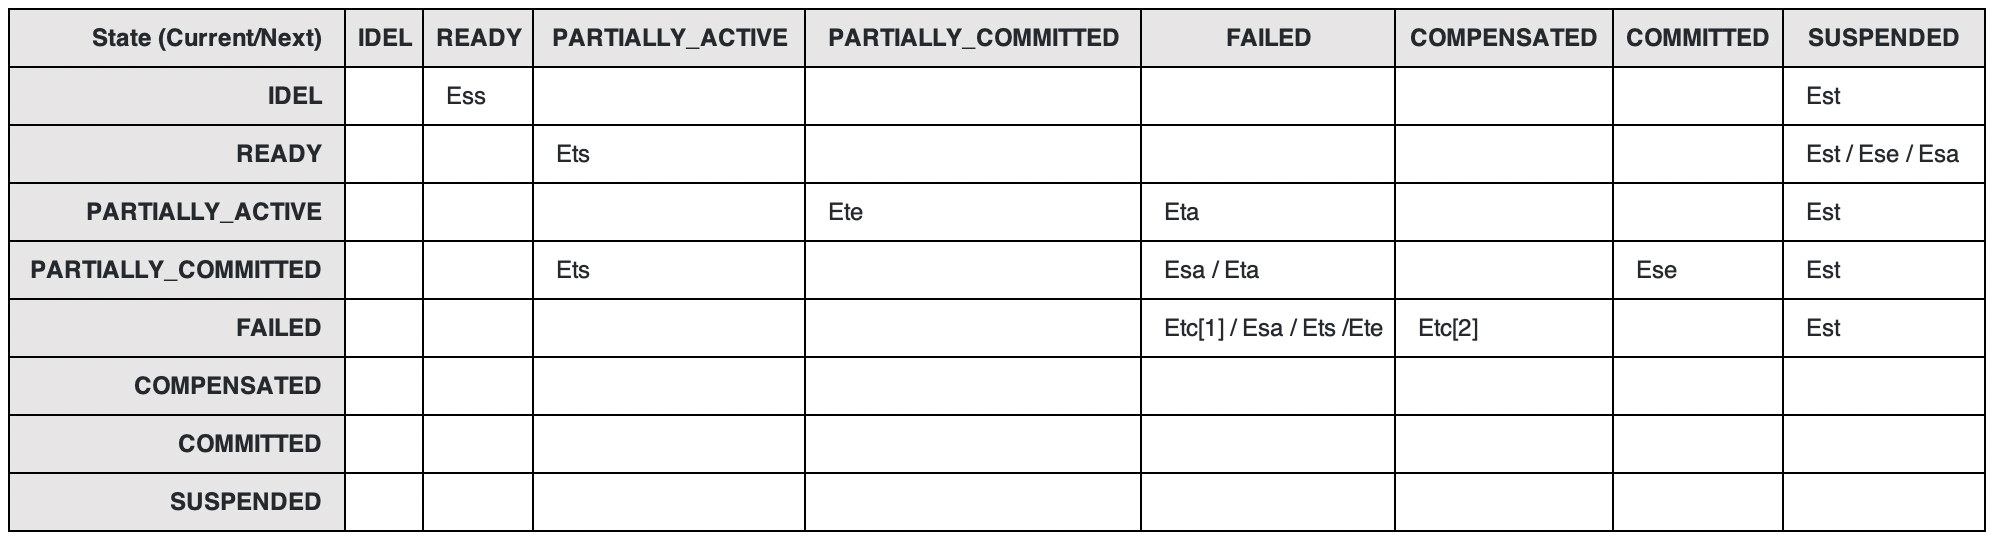
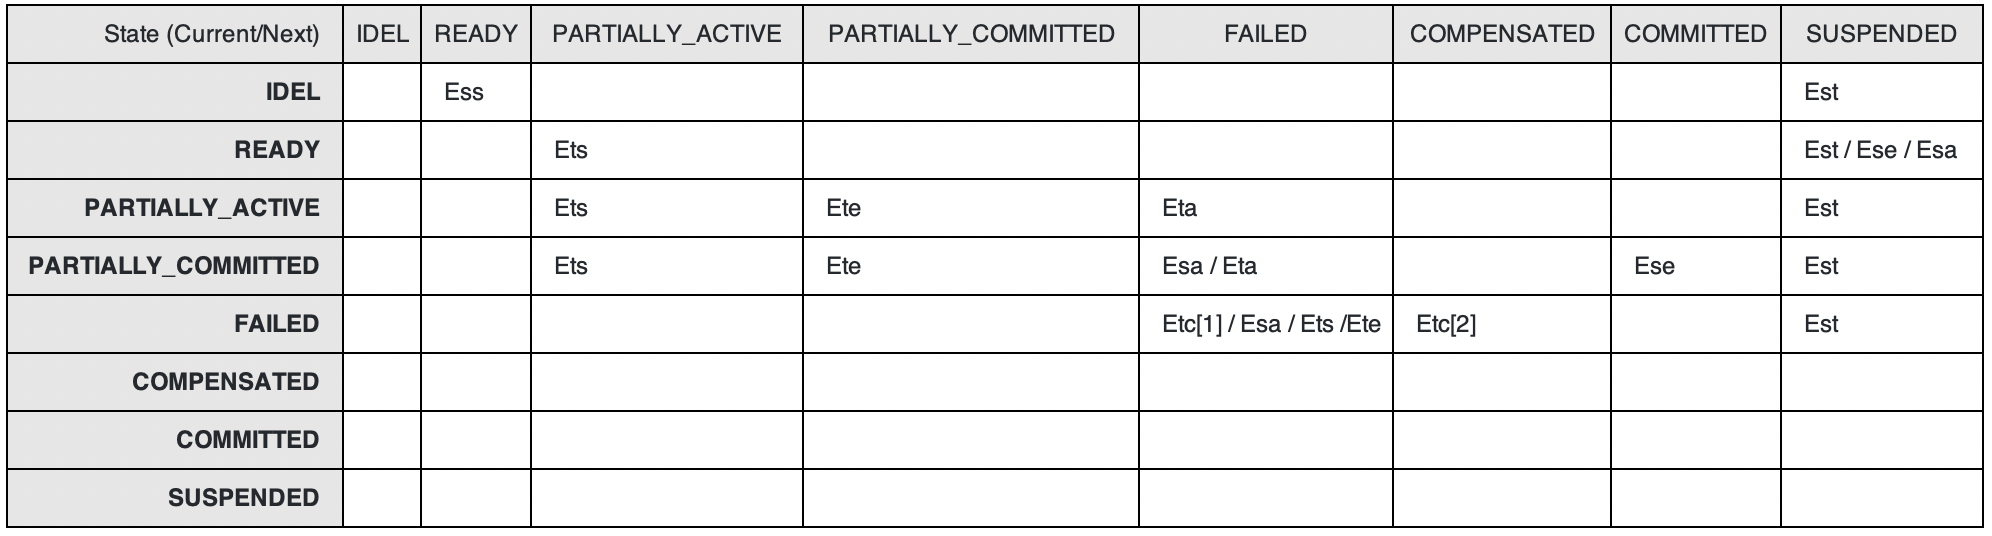
SCB-1321 Sub-transaction support concurrent

diff --git a/alpha/alpha-fsm/src/test/java/org/apache/servicecomb/pack/alpha/fsm/SagaActorTest.java b/alpha/alpha-fsm/src/test/java/org/apache/servicecomb/pack/alpha/fsm/SagaActorTest.java
@@ -8,6 +8,7 @@ import akka.actor.Terminated;
 import akka.persistence.fsm.PersistentFSM;
 import akka.persistence.fsm.PersistentFSM.CurrentState;
 import akka.testkit.javadsl.TestKit;
+import java.lang.invoke.MethodHandles;
 import java.time.Duration;
 import java.util.UUID;
 import org.apache.servicecomb.pack.alpha.fsm.event.SagaAbortedEvent;
@@ -22,8 +23,12 @@ import org.apache.servicecomb.pack.alpha.fsm.model.SagaData;
 import org.junit.AfterClass;
 import org.junit.BeforeClass;
 import org.junit.Test;
+import org.slf4j.Logger;
+import org.slf4j.LoggerFactory;
 
 public class SagaActorTest {
+
+  private static final Logger LOG = LoggerFactory.getLogger(MethodHandles.lookup().lookupClass());
 
   static ActorSystem system;
 
@@ -320,7 +325,7 @@ public class SagaActorTest {
    * 10. SagaAbortedEvent-1
    */
   @Test
-  public void receivedRemainingEventAfterfirstTxAbortedEventTest() {
+  public void receivedRemainingEventAfterFirstTxAbortedEventTest() {
     new TestKit(system) {{
       final String globalTxId = UUID.randomUUID().toString();
       final String localTxId_1 = UUID.randomUUID().toString();
@@ -601,6 +606,203 @@ public class SagaActorTest {
 
       transition = expectMsgClass(Duration.ofSeconds(timeout+2),PersistentFSM.Transition.class);
       assertSagaTransition(transition, saga, SagaActorState.PARTIALLY_COMMITTED, SagaActorState.SUSPENDED);
+
+      Terminated terminated = expectMsgClass(Terminated.class);
+      assertEquals(terminated.getActor(), saga);
+
+      system.stop(saga);
+    }};
+  }
+
+  // tx concurrent execution
+
+  /**
+   * 1. SagaStartedEvent-1
+   * 2. TxStartedEvent-11
+   * 3. TxStartedEvent-12
+   * 4. TxStartedEvent-13
+   * 5. TxEndedEvent-11
+   * 6. TxEndedEvent-12
+   * 7. TxEndedEvent-13
+   * 8. SagaEndedEvent-1
+   */
+  @Test
+  public void successfulTestWithTxConcurrent() throws InterruptedException {
+    new TestKit(system) {{
+      final String globalTxId = UUID.randomUUID().toString();
+      final String localTxId_1 = UUID.randomUUID().toString();
+      final String localTxId_2 = UUID.randomUUID().toString();
+      final String localTxId_3 = UUID.randomUUID().toString();
+
+      ActorRef saga = system.actorOf(SagaActor.props(genPersistenceId()), "saga");
+      watch(saga);
+      saga.tell(new PersistentFSM.SubscribeTransitionCallBack(getRef()), getRef());
+      saga.tell(SagaStartedEvent.builder().globalTxId(globalTxId).build(), getRef());
+      saga.tell(TxStartedEvent.builder().globalTxId(globalTxId).parentTxId(globalTxId).localTxId(localTxId_1).build(), getRef());
+      saga.tell(TxStartedEvent.builder().globalTxId(globalTxId).parentTxId(globalTxId).localTxId(localTxId_2).build(), getRef());
+      saga.tell(TxStartedEvent.builder().globalTxId(globalTxId).parentTxId(globalTxId).localTxId(localTxId_3).build(), getRef());
+      saga.tell(TxEndedEvent.builder().globalTxId(globalTxId).parentTxId(globalTxId).localTxId(localTxId_1).build(), getRef());
+      saga.tell(TxEndedEvent.builder().globalTxId(globalTxId).parentTxId(globalTxId).localTxId(localTxId_2).build(), getRef());
+      saga.tell(TxEndedEvent.builder().globalTxId(globalTxId).parentTxId(globalTxId).localTxId(localTxId_3).build(), getRef());
+      saga.tell(SagaEndedEvent.builder().globalTxId(globalTxId).build(), getRef());
+
+      //expect
+      CurrentState currentState = expectMsgClass(PersistentFSM.CurrentState.class);
+      assertEquals(SagaActorState.IDEL, currentState.state());
+
+      PersistentFSM.Transition transition = expectMsgClass(PersistentFSM.Transition.class);
+      assertSagaTransition(transition, saga, SagaActorState.IDEL, SagaActorState.READY);
+
+      transition = expectMsgClass(PersistentFSM.Transition.class);
+      assertSagaTransition(transition, saga, SagaActorState.READY, SagaActorState.PARTIALLY_ACTIVE);
+
+      transition = expectMsgClass(PersistentFSM.Transition.class);
+      assertSagaTransition(transition, saga, SagaActorState.PARTIALLY_ACTIVE, SagaActorState.PARTIALLY_COMMITTED);
+
+      SagaData sagaData = expectMsgClass(SagaData.class);
+      assertEquals(sagaData.getGlobalTxId(), globalTxId);
+      assertEquals(sagaData.getTxEntityMap().size(), 3);
+      sagaData.getTxEntityMap().forEach((k, v) -> {
+        assertEquals(v.getState(), TxState.COMMITTED);
+      });
+
+      transition = expectMsgClass(PersistentFSM.Transition.class);
+      assertSagaTransition(transition, saga, SagaActorState.PARTIALLY_COMMITTED, SagaActorState.COMMITTED);
+
+      Terminated terminated = expectMsgClass(Terminated.class);
+      assertEquals(terminated.getActor(), saga);
+
+      system.stop(saga);
+    }};
+  }
+
+  /**
+   * 1. SagaStartedEvent-1
+   * 2. TxStartedEvent-11
+   * 3. TxStartedEvent-12
+   * 5. TxEndedEvent-11
+   * 4. TxStartedEvent-13
+   * 6. TxEndedEvent-12
+   * 7. TxEndedEvent-13
+   * 8. SagaEndedEvent-1
+   */
+  @Test
+  public void successfulTestWithTxConcurrentCross() throws InterruptedException {
+    new TestKit(system) {{
+      final String globalTxId = UUID.randomUUID().toString();
+      final String localTxId_1 = UUID.randomUUID().toString();
+      final String localTxId_2 = UUID.randomUUID().toString();
+      final String localTxId_3 = UUID.randomUUID().toString();
+
+      ActorRef saga = system.actorOf(SagaActor.props(genPersistenceId()), "saga");
+      watch(saga);
+      saga.tell(new PersistentFSM.SubscribeTransitionCallBack(getRef()), getRef());
+      saga.tell(SagaStartedEvent.builder().globalTxId(globalTxId).build(), getRef());
+      saga.tell(TxStartedEvent.builder().globalTxId(globalTxId).parentTxId(globalTxId).localTxId(localTxId_1).build(), getRef());
+      saga.tell(TxStartedEvent.builder().globalTxId(globalTxId).parentTxId(globalTxId).localTxId(localTxId_2).build(), getRef());
+      saga.tell(TxEndedEvent.builder().globalTxId(globalTxId).parentTxId(globalTxId).localTxId(localTxId_1).build(), getRef());
+      saga.tell(TxStartedEvent.builder().globalTxId(globalTxId).parentTxId(globalTxId).localTxId(localTxId_3).build(), getRef());
+      saga.tell(TxEndedEvent.builder().globalTxId(globalTxId).parentTxId(globalTxId).localTxId(localTxId_2).build(), getRef());
+      saga.tell(TxEndedEvent.builder().globalTxId(globalTxId).parentTxId(globalTxId).localTxId(localTxId_3).build(), getRef());
+      saga.tell(SagaEndedEvent.builder().globalTxId(globalTxId).build(), getRef());
+
+      //expect
+      CurrentState currentState = expectMsgClass(PersistentFSM.CurrentState.class);
+      assertEquals(SagaActorState.IDEL, currentState.state());
+
+      PersistentFSM.Transition transition = expectMsgClass(PersistentFSM.Transition.class);
+      assertSagaTransition(transition, saga, SagaActorState.IDEL, SagaActorState.READY);
+
+      transition = expectMsgClass(PersistentFSM.Transition.class);
+      assertSagaTransition(transition, saga, SagaActorState.READY, SagaActorState.PARTIALLY_ACTIVE);
+
+      transition = expectMsgClass(PersistentFSM.Transition.class);
+      assertSagaTransition(transition, saga, SagaActorState.PARTIALLY_ACTIVE, SagaActorState.PARTIALLY_COMMITTED);
+
+      transition = expectMsgClass(PersistentFSM.Transition.class);
+      assertSagaTransition(transition, saga, SagaActorState.PARTIALLY_COMMITTED, SagaActorState.PARTIALLY_ACTIVE);
+
+      transition = expectMsgClass(PersistentFSM.Transition.class);
+      assertSagaTransition(transition, saga, SagaActorState.PARTIALLY_ACTIVE, SagaActorState.PARTIALLY_COMMITTED);
+
+      SagaData sagaData = expectMsgClass(SagaData.class);
+      assertEquals(sagaData.getGlobalTxId(), globalTxId);
+      assertEquals(sagaData.getTxEntityMap().size(), 3);
+      sagaData.getTxEntityMap().forEach((k, v) -> {
+        assertEquals(v.getState(), TxState.COMMITTED);
+      });
+
+      transition = expectMsgClass(PersistentFSM.Transition.class);
+      assertSagaTransition(transition, saga, SagaActorState.PARTIALLY_COMMITTED, SagaActorState.COMMITTED);
+
+      Terminated terminated = expectMsgClass(Terminated.class);
+      assertEquals(terminated.getActor(), saga);
+
+      system.stop(saga);
+    }};
+  }
+
+  /**
+   * 1. SagaStartedEvent-1
+   * 2. TxStartedEvent-11
+   * 4. TxStartedEvent-12
+   * 6. TxStartedEvent-13
+   * 3. TxEndedEvent-11
+   * 5. TxEndedEvent-12
+   * 7. TxAbortedEvent-13
+   * 8. TxComponsitedEvent-11
+   * 9. TxComponsitedEvent-12
+   * 10. SagaAbortedEvent-1
+   */
+  @Test
+  public void lastTxAbortedEventWithTxConcurrentTest() {
+    new TestKit(system) {{
+      final String globalTxId = UUID.randomUUID().toString();
+      final String localTxId_1 = UUID.randomUUID().toString();
+      final String localTxId_2 = UUID.randomUUID().toString();
+      final String localTxId_3 = UUID.randomUUID().toString();
+
+      ActorRef saga = system.actorOf(SagaActor.props(genPersistenceId()), "saga");
+      watch(saga);
+      saga.tell(new PersistentFSM.SubscribeTransitionCallBack(getRef()), getRef());
+
+      saga.tell(SagaStartedEvent.builder().globalTxId(globalTxId).build(), getRef());
+      saga.tell(TxStartedEvent.builder().globalTxId(globalTxId).parentTxId(globalTxId).localTxId(localTxId_1).build(), getRef());
+      saga.tell(TxStartedEvent.builder().globalTxId(globalTxId).parentTxId(globalTxId).localTxId(localTxId_2).build(), getRef());
+      saga.tell(TxStartedEvent.builder().globalTxId(globalTxId).parentTxId(globalTxId).localTxId(localTxId_3).build(), getRef());
+      saga.tell(TxEndedEvent.builder().globalTxId(globalTxId).parentTxId(globalTxId).localTxId(localTxId_1).build(), getRef());
+      saga.tell(TxEndedEvent.builder().globalTxId(globalTxId).parentTxId(globalTxId).localTxId(localTxId_2).build(), getRef());
+      saga.tell(TxAbortedEvent.builder().globalTxId(globalTxId).parentTxId(globalTxId).localTxId(localTxId_3).build(), getRef());
+      saga.tell(TxComponsitedEvent.builder().globalTxId(globalTxId).parentTxId(globalTxId).localTxId(localTxId_1).build(), getRef());
+      saga.tell(TxComponsitedEvent.builder().globalTxId(globalTxId).parentTxId(globalTxId).localTxId(localTxId_2).build(), getRef());
+      saga.tell(SagaAbortedEvent.builder().globalTxId(globalTxId).build(), getRef());
+
+      //expect
+      CurrentState currentState = expectMsgClass(PersistentFSM.CurrentState.class);
+      assertEquals(SagaActorState.IDEL, currentState.state());
+
+      PersistentFSM.Transition transition = expectMsgClass(PersistentFSM.Transition.class);
+      assertSagaTransition(transition, saga, SagaActorState.IDEL, SagaActorState.READY);
+
+      transition = expectMsgClass(PersistentFSM.Transition.class);
+      assertSagaTransition(transition, saga, SagaActorState.READY, SagaActorState.PARTIALLY_ACTIVE);
+
+      transition = expectMsgClass(PersistentFSM.Transition.class);
+      assertSagaTransition(transition, saga, SagaActorState.PARTIALLY_ACTIVE, SagaActorState.PARTIALLY_COMMITTED);
+
+      transition = expectMsgClass(PersistentFSM.Transition.class);
+      assertSagaTransition(transition, saga, SagaActorState.PARTIALLY_COMMITTED, SagaActorState.FAILED);
+
+      SagaData sagaData = expectMsgClass(SagaData.class);
+      assertEquals(sagaData.getGlobalTxId(), globalTxId);
+      assertEquals(sagaData.getTxEntityMap().size(), 3);
+      assertEquals(sagaData.getTxEntityMap().get(localTxId_1).getState(), TxState.COMPENSATED);
+      assertEquals(sagaData.getTxEntityMap().get(localTxId_2).getState(), TxState.COMPENSATED);
+      assertEquals(sagaData.getTxEntityMap().get(localTxId_3).getState(), TxState.FAILED);
+      assertEquals(sagaData.getCompensationRunningCounter().intValue(), 0);
+
+      transition = expectMsgClass(PersistentFSM.Transition.class);
+      assertSagaTransition(transition, saga, SagaActorState.FAILED, SagaActorState.COMPENSATED);
 
       Terminated terminated = expectMsgClass(Terminated.class);
       assertEquals(terminated.getActor(), saga);

diff --git a/alpha/alpha-fsm/src/main/java/org/apache/servicecomb/pack/alpha/fsm/SagaActor.java b/alpha/alpha-fsm/src/main/java/org/apache/servicecomb/pack/alpha/fsm/SagaActor.java
@@ -95,6 +95,16 @@ public class SagaActor extends
                 return goTo(SagaActorState.PARTIALLY_COMMITTED);
               }
             }
+        ).event(TxStartedEvent.class,
+            (event, data) -> {
+              updateTxEntity(event, data);
+              if (data.getExpirationTime() > 0) {
+                return stay()
+                    .forMax(Duration.create(data.getTimeout(), TimeUnit.MILLISECONDS));
+              } else {
+                return stay();
+              }
+            }
         ).event(SagaTimeoutEvent.class,
             (event, data) -> {
               return goTo(SagaActorState.SUSPENDED)
@@ -121,6 +131,16 @@ public class SagaActor extends
                     .forMax(Duration.create(data.getTimeout(), TimeUnit.MILLISECONDS));
               } else {
                 return goTo(SagaActorState.PARTIALLY_ACTIVE);
+              }
+            }
+        ).event(TxEndedEvent.class,
+            (event, data) -> {
+              updateTxEntity(event, data);
+              if (data.getExpirationTime() > 0) {
+                return stay()
+                    .forMax(Duration.create(data.getTimeout(), TimeUnit.MILLISECONDS));
+              } else {
+                return stay();
               }
             }
         ).event(SagaTimeoutEvent.class,
@@ -196,8 +216,8 @@ public class SagaActor extends
         ).event(TxEndedEvent.class, SagaData.class,
             (event, data) -> {
               updateTxEntity(event, data);
-              // TODO 调用补偿方法
               TxEntity txEntity = data.getTxEntityMap().get(event.getLocalTxId());
+              // TODO call compensate
               compensation(txEntity, data);
               return stay();
             }
@@ -233,8 +253,8 @@ public class SagaActor extends
 
     whenUnhandled(
         matchAnyEvent((event, data) -> {
-          LOG.error("unmatch event {}", event);
-          return stay();
+          LOG.error("Unhandled event {}", event);
+          return goTo(SagaActorState.SUSPENDED).replying(data);
         })
     );
 
@@ -290,26 +310,25 @@ public class SagaActor extends
           if (txEntity.getState() == TxState.ACTIVE) {
             txEntity.setEndTime(System.currentTimeMillis());
             txEntity.setState(TxState.FAILED);
-            // TODO 调用补偿方法
             data.getTxEntityMap().forEach((k, v) -> {
               if (v.getState() == TxState.COMMITTED) {
-                // TODO 调用补偿方法
+                // call compensate
                 compensation(v, data);
               }
             });
           }
         } else if (event instanceof TxComponsitedEvent) {
-          //补偿中计数器减一
+          // decrement the compensation running counter by one
           data.getCompensationRunningCounter().decrementAndGet();
           txEntity.setState(TxState.COMPENSATED);
-          LOG.info("完成补偿 {}",txEntity.getLocalTxId());
+          LOG.info("compensation is completed {}",txEntity.getLocalTxId());
         }
       }
     } else if (event instanceof SagaEvent) {
       if (event instanceof SagaAbortedEvent) {
         data.getTxEntityMap().forEach((k, v) -> {
           if (v.getState() == TxState.COMMITTED) {
-            // TODO 调用补偿方法
+            // call compensate
             compensation(v, data);
           }
         });
@@ -324,8 +343,8 @@ public class SagaActor extends
   }
 
   private void compensation(TxEntity txEntity, SagaData data) {
-    //补偿中计数器加一
+    // increments the compensation running counter by one
     data.getCompensationRunningCounter().incrementAndGet();
-    LOG.info("调用补偿方法 {}", txEntity.getLocalTxId());
+    LOG.info("compensate {}", txEntity.getLocalTxId());
   }
 }
